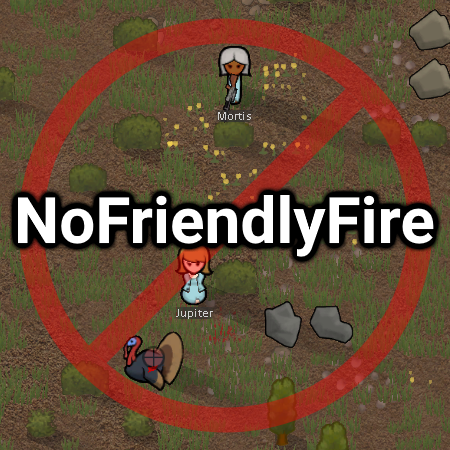
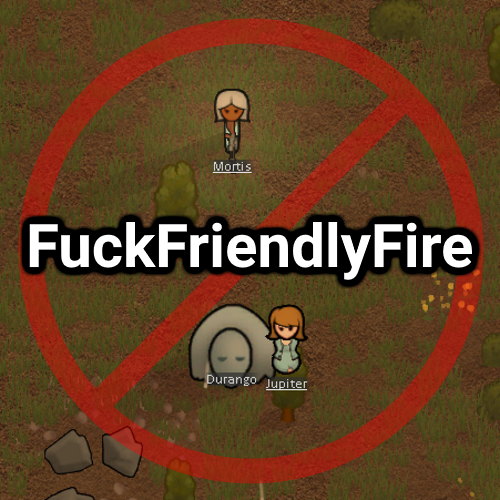
v2

diff --git a/Source/FuckFriendlyFire.cs b/Source/FuckFriendlyFire.cs
@@ -1,0 +1,53 @@
+using Verse;
+using Harmony;
+using RimWorld;
+using System;
+using System.Reflection;
+
+namespace FuckFriendlyFire
+{
+    class Calculations
+    {
+        public static float CalculateHitChance(int shooterLevel)
+        {
+            return (Settings.hit_chance - shooterLevel * Settings.hit_chance / 20f);
+        }
+        public static float CalculateHitChance(Pawn p)
+        {
+            int shooterLevel = p.skills.GetSkill(SkillDefOf.Shooting).Level;
+            return CalculateHitChance(shooterLevel);
+        }
+    }
+
+    [HarmonyPatch(typeof(Bullet), "Impact", new Type[] { typeof(Thing) })]
+    public static class FuckFriendlyFireBullet_Impact
+    {
+        static void Prefix(Bullet __instance, ref Thing hitThing)
+        {
+            if (hitThing.GetType() != typeof(Pawn)) { return;  }
+            try
+            {
+                Type t = __instance.GetType().BaseType;
+
+                Thing launcher = (Thing)t.GetField("launcher", BindingFlags.NonPublic | BindingFlags.Instance).GetValue(__instance);
+                Thing assignedTarget = (Thing)t.GetField("assignedTarget", BindingFlags.NonPublic | BindingFlags.Instance).GetValue(__instance);
+
+                if (launcher.HostileTo(hitThing.Faction) || assignedTarget == hitThing) { return; }
+
+                if (Settings.hit_chance == 0) { hitThing = null; return; }
+                
+                try
+                {
+
+                    decimal chance = (decimal)Calculations.CalculateHitChance((Pawn)launcher);
+                    int count = BitConverter.GetBytes(decimal.GetBits(chance)[3])[2];
+                    int r = Rand.Range(1, (int)Math.Pow(10,(2 + count)));
+
+                    if (r > ((int)chance * (int)Math.Pow(10, count))) hitThing = null;
+
+                } catch(InvalidCastException) {}
+            }
+            catch (NullReferenceException) {}
+        }
+    }
+}

diff --git a/Source/ModSettings.cs b/Source/ModSettings.cs
@@ -1,0 +1,44 @@
+using UnityEngine;
+using Verse;
+
+namespace FuckFriendlyFire
+{
+    public class Settings : Verse.ModSettings
+    {
+        public static int hit_chance   = 0;
+        public static bool shooting_level_affects = false;
+
+        protected static int simulate = 10;
+
+        public static void DoSettingsWindowContents(Rect inRect)
+        {
+            Listing_Standard list = new Listing_Standard();
+            list.Begin(inRect);
+            if (hit_chance == 0)
+            {
+                list.Label("Hit Chance: 0% (Disables friendly fire)", -1f);
+            }
+            else
+            {
+                list.Label("Hit Chance: " + hit_chance + "%", -1f);
+            }
+            hit_chance = (int)list.Slider(hit_chance, 0f, 99f);
+            if (hit_chance > 0)
+            {
+                list.CheckboxLabeled("Affected by shooting level", ref shooting_level_affects, "When checked, the shooting level of a pawn will affect its friendly fire hit chance. Test below.");
+                Log.Message(simulate.ToString());
+                Log.Message(Calculations.CalculateHitChance(simulate).ToString());
+                list.Label("Hit Chance After Shooter Level " + simulate + ": " + Calculations.CalculateHitChance(simulate) + "%");
+                simulate = (int)list.Slider(simulate, 0f, 20f);
+                list.End();
+            }
+        }
+
+        public override void ExposeData()
+        {
+            base.ExposeData();
+            Scribe_Values.Look(ref hit_chance, "hit_chance", 0);
+            Scribe_Values.Look(ref shooting_level_affects, "shooting_level_affects", false);
+        }
+    }
+}

diff --git a/Source/Mod.cs b/Source/Mod.cs
@@ -1,0 +1,35 @@
+using System.Reflection;
+using Harmony;
+using UnityEngine;
+using Verse;
+
+namespace FuckFriendlyFire
+{
+    public class Controller : Mod
+    {
+        public static Settings Settings;
+
+        public Controller(ModContentPack content) : base(content)
+        {
+            var harmony = HarmonyInstance.Create("venner.io.fuckfriendlyfire");
+            harmony.PatchAll(Assembly.GetExecutingAssembly());
+
+            base.GetSettings<Settings>();
+        }
+
+        public void Save()
+        {
+            LoadedModManager.GetMod<Controller>().GetSettings<Settings>().Write();
+        }
+
+        public override string SettingsCategory()
+        {
+            return "FuckFriendlyFire";
+        }
+
+        public override void DoSettingsWindowContents(Rect inRect)
+        {
+            Settings.DoSettingsWindowContents(inRect);
+        }
+    }
+}

diff --git a/Source/Properties/AssemblyInfo.cs b/Source/Properties/AssemblyInfo.cs
@@ -5,11 +5,11 @@ using System.Runtime.InteropServices;
 // General Information about an assembly is controlled through the following
 // set of attributes. Change these attribute values to modify the information
 // associated with an assembly.
-[assembly: AssemblyTitle("NoFriendlyFire")]
-[assembly: AssemblyDescription("Rimworld Mod")]
+[assembly: AssemblyTitle("FuckFriendlyFire")]
+[assembly: AssemblyDescription("")]
 [assembly: AssemblyConfiguration("")]
 [assembly: AssemblyCompany("")]
-[assembly: AssemblyProduct("NoFriendlyFire")]
+[assembly: AssemblyProduct("FuckFriendlyFire")]
 [assembly: AssemblyCopyright("Copyright © William Venner 2017")]
 [assembly: AssemblyTrademark("")]
 [assembly: AssemblyCulture("")]
